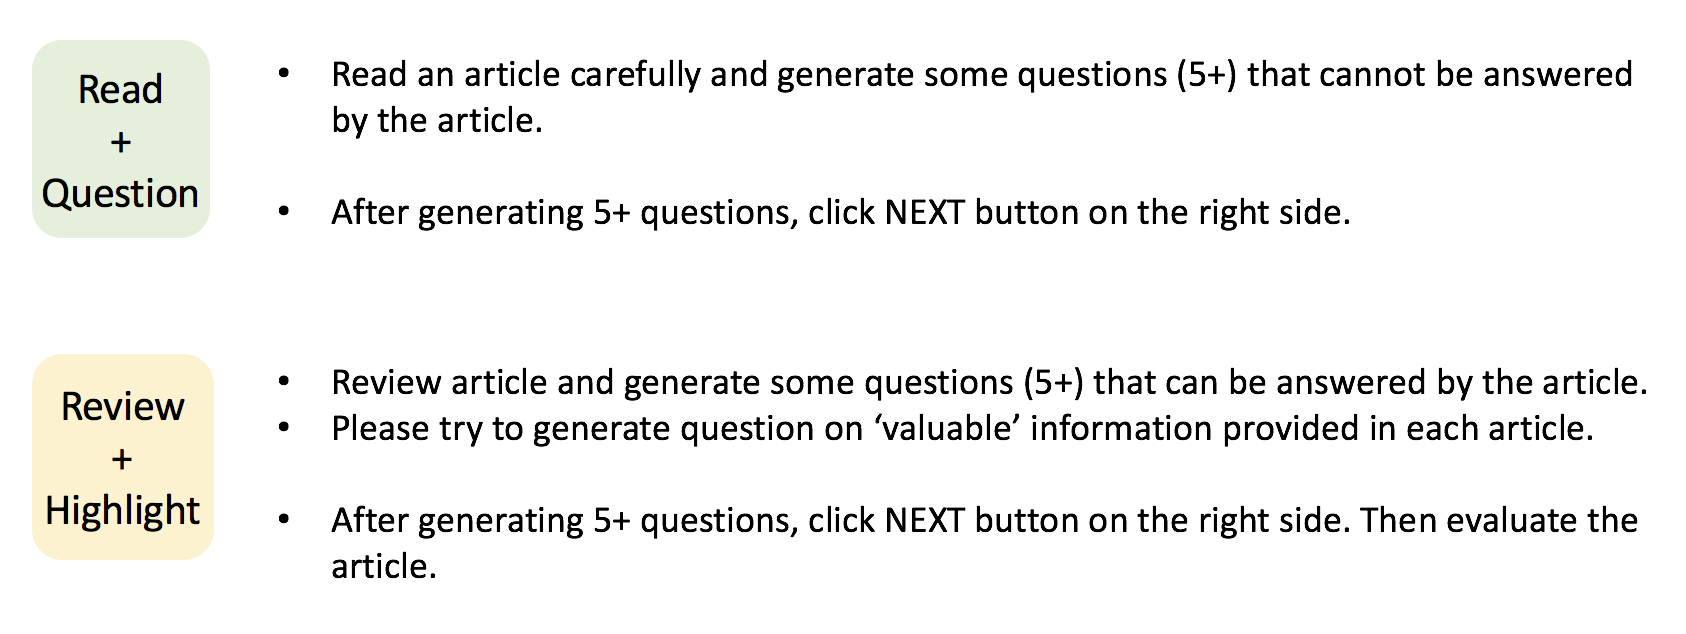
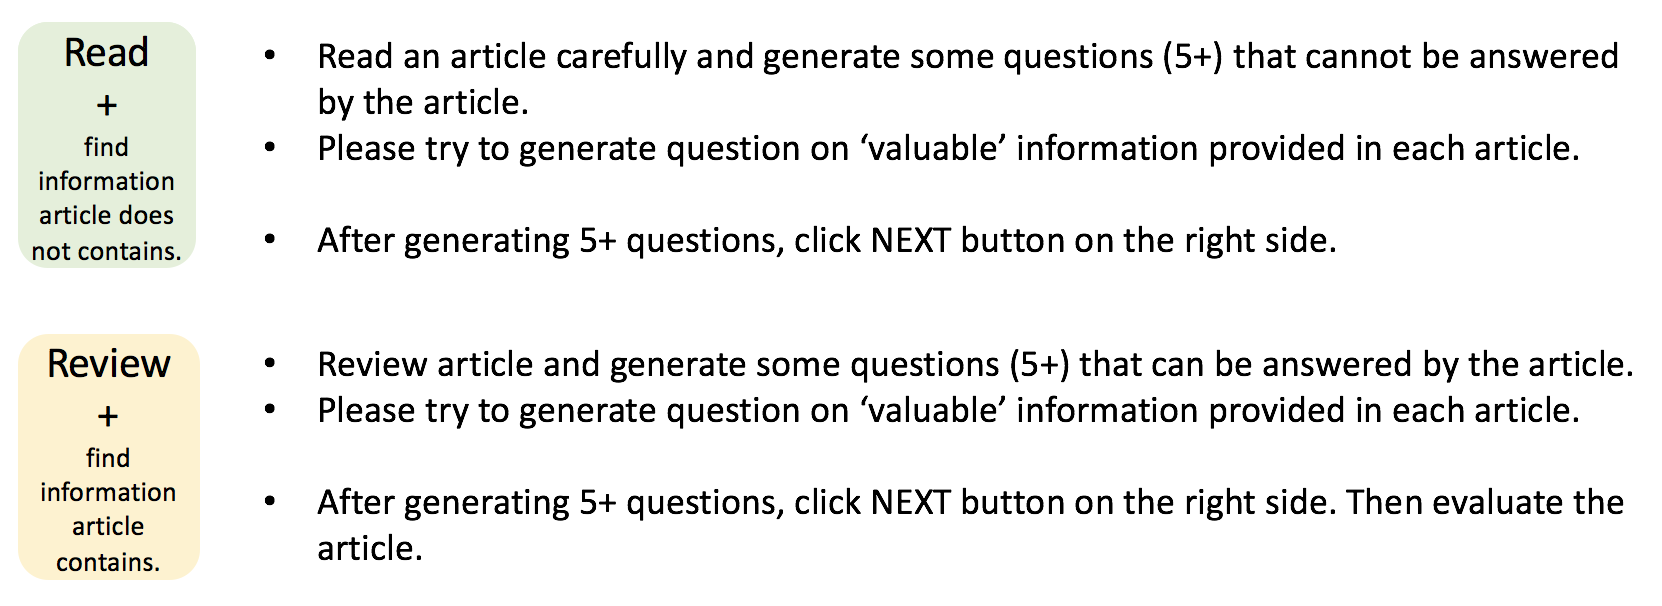
revise instruction

diff --git a/scinewsquestion/scinewsquestion/question/templates/question/tutorial.html b/scinewsquestion/scinewsquestion/question/templates/question/tutorial.html
@@ -21,11 +21,14 @@
                                 </div>
                                 <div  class="row">
                                         <p>In this HIT, you are going to read 3 news articles on ONE scientific research. Each article tries to deliver the same scientific research findings to their audiences.</p>
-                                        <p>What you are going to do is basically <b>finding out what information each article give or does not give to you.</b></p>
+                                        <p>Your goal is: after reading each article, finding out what <b>valuable information</b> each article <b>does not contain</b> and <b>contains</b> based on your understanding.</p>
 
-                                        <p>To do so, we ask you to read each article and generate (1) list of questions that each article cannot answer and (2) list of questions that each article can answer.</p>
+                                        <p>To be specific, you are going to finish two tasks:
+                                                <ol>
+                                        <li>1. You will read an article to find out what information each article does not contains. Based on what you find you need to generate a list of questions that each article cannot answer.</li>
+                                        <li>2. You will review the article again to find out what information each article contains. Based on what you find you need to generate a list of questions that each article can answer.</li>
+                                                </ol>
 
-                                        <p>To be specific, for each article, you will have two sessions - (1) Reading + Questioning and (2) Reviewing + Highlighting. In each session, you are asked to do the following. </p>
                                         <img src="{% static "media/sessions.png" %}" style="width:85%;align-self: center;padding-left:10%;padding-bottom:20px;">
                                        
                                         <p>Below shows the overall process of this HIT. </p>
